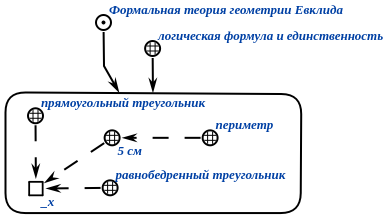
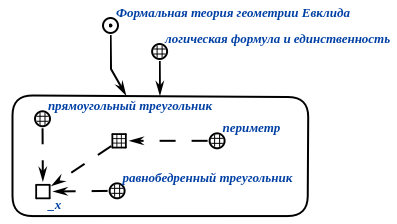
fix unique formula

Changed region(s): [[0.0, 0.0271, 0.9871, 0.9774], [0.401, 0.543, 0.7095, 0.6787], [0.2159, 0.5701, 0.3702, 0.7059]]

diff --git a/Contents/chapter2/sd_ostis_sys_models/sd_kb/sd_logical_formulas.tex b/Contents/chapter2/sd_ostis_sys_models/sd_kb/sd_logical_formulas.tex
@@ -439,7 +439,7 @@
 \scnrelfrom{описание примера}{
 \scnfilescg{figures/sd_logical_formulas/unique_existance.png}}
 \scnaddlevel{1}
-\scnnote{Данная формула показывает, что в рамках формальной теории геометрии Евклида существует только один прямоугольный треугольник с периметром 5 см, который в свою очередь является равнобедренным.}
+\scnnote{Данная формула показывает, что в рамках формальной теории геометрии Евклида существует только один прямоугольный треугольник с некоторым периметром, который в свою очередь является равнобедренным.}
 \scniselement{sc.g-текст}
 \scnaddlevel{-1}
 
